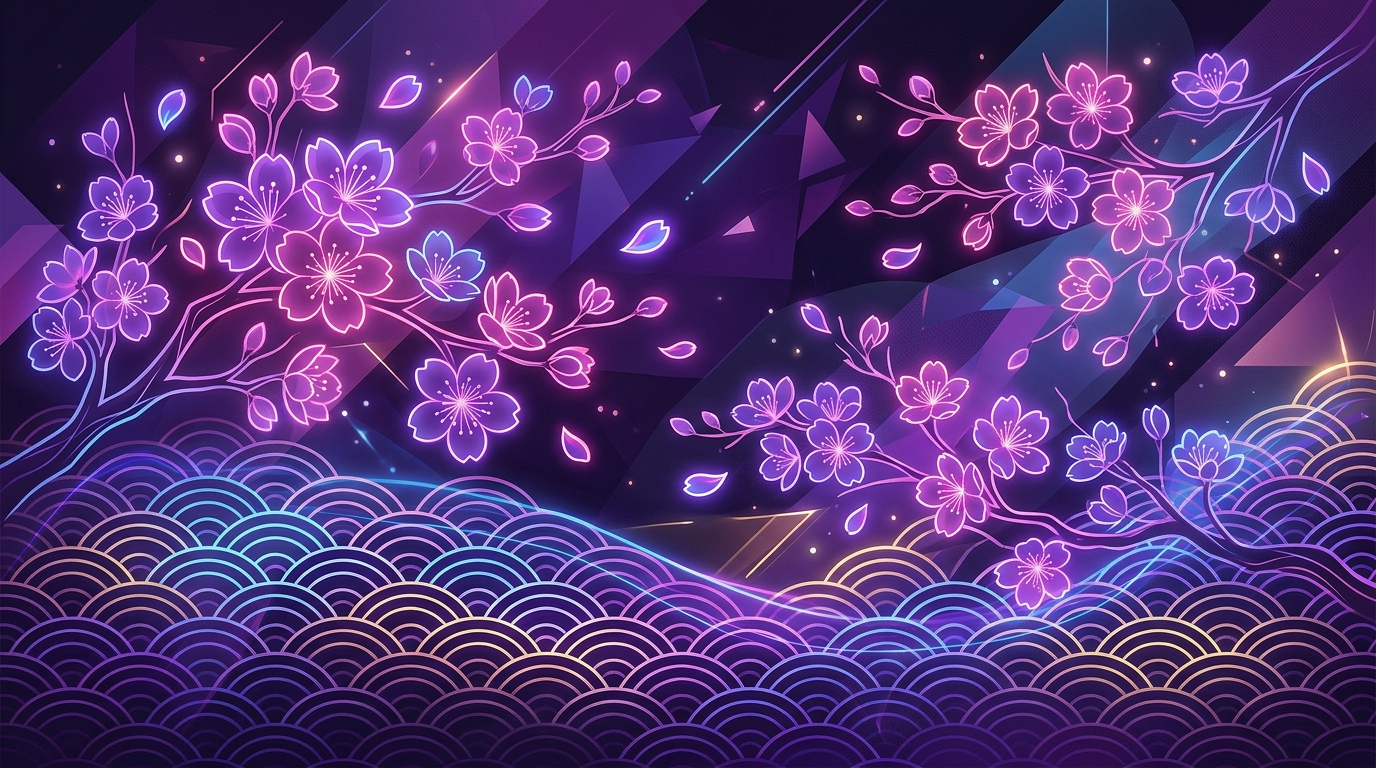
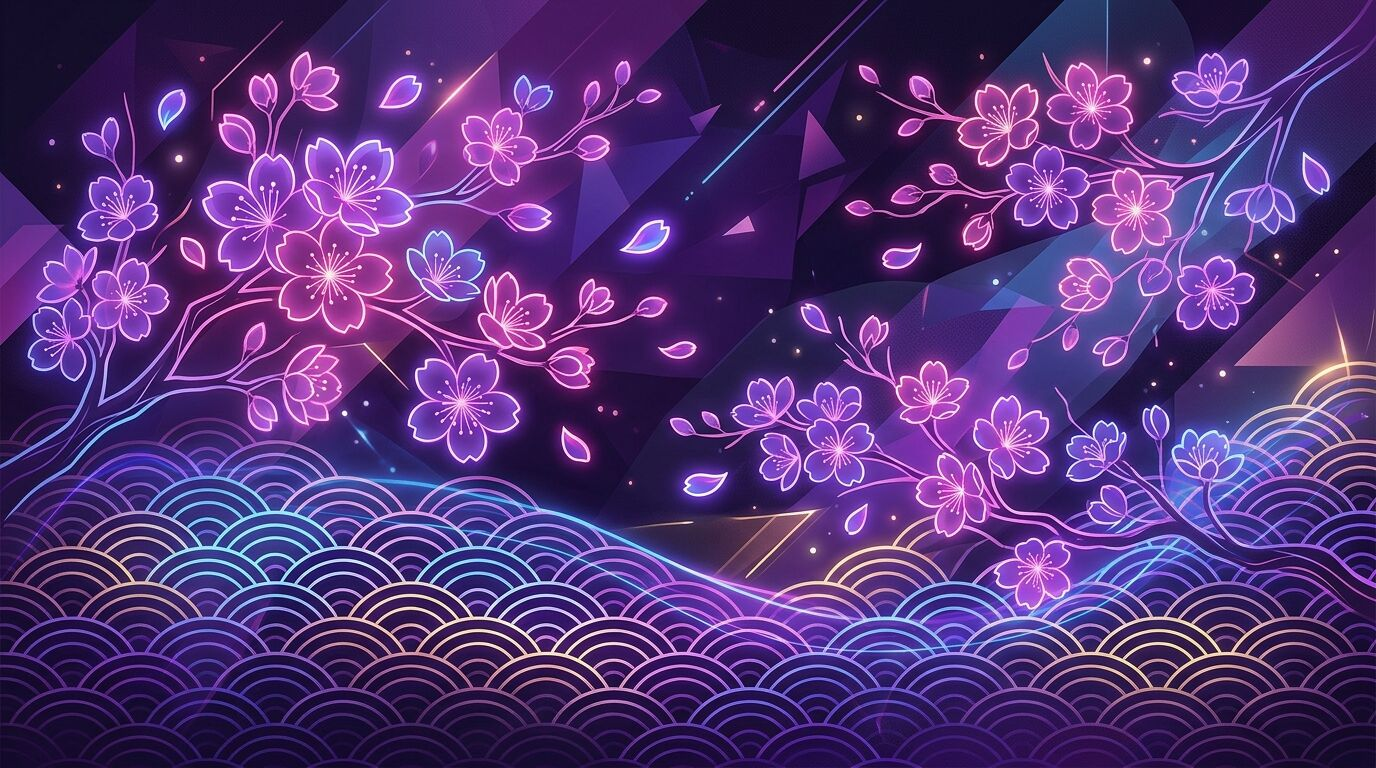
Perf: shrink hero LCP image, preload hero + font (LCP/CLS) (#12)
Cloudflare Web Vitals showed the hero image as the LCP element (6.4s at
P90) and a CLS of ~0.109 on the arena.

- hero.jpg: re-encoded 1.1MB baseline JPEG -> 253KB progressive (q80,
  stripped, same dimensions/filename so OG tags + CSS are unchanged).
- Preload the hero: it's a CSS background, so otherwise discovered late.
- Preload outfit-latin.woff2: font-display:swap with no preload caused a
  late font swap that reflowed the page (the CLS). Preloading it makes
  the font available before first paint.
- SW cache v6 -> v7 so returning visitors get the lighter hero + head.

diff --git a/index.html b/index.html
@@ -66,6 +66,10 @@
     }
     </script>
 
+    <!-- Preload the LCP hero (it's a CSS background, so otherwise discovered late) -->
+    <link rel="preload" as="image" href="assets/hero.jpg" fetchpriority="high">
+    <!-- Preload the primary font subset so its swap doesn't reflow the page (CLS) -->
+    <link rel="preload" as="font" type="font/woff2" href="vendor/fonts/outfit-latin.woff2" crossorigin>
     <!-- Fonts and Icons -->
     <link rel="stylesheet" href="vendor/fonts/outfit.css">
     <link rel="stylesheet" href="vendor/fontawesome/css/all.min.css">

diff --git a/sw.js b/sw.js
@@ -3,7 +3,7 @@
 // immediately; falls back to the cache only when offline. The cache is refreshed
 // on every load, so offline always has the most recent working copy.
 // This never touches localStorage, so study progress is safe across any cache change.
-const CACHE_NAME = 'kotoquest-v6';
+const CACHE_NAME = 'kotoquest-v7';
 const PRECACHE = [
   './',
   './index.html',